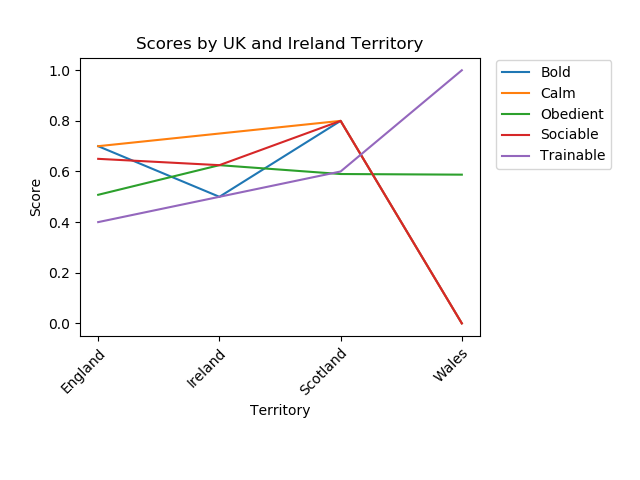
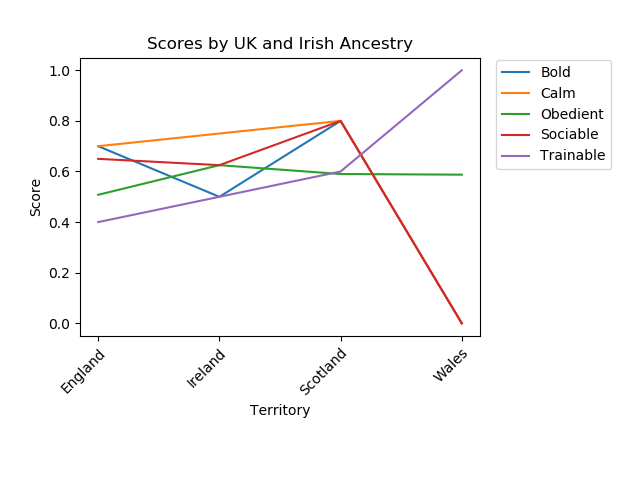
Tweaked graphic

Changed region(s): [[0.2188, 0.0625, 0.6562, 0.125]]

diff --git a/analysis.py b/analysis.py
@@ -77,7 +77,7 @@ plt.legend(loc=(1.04,0.6))
 plt.title('Scores by AKC Grouping')
 ax.set_ylabel('Score')
 ax.set_xlabel('AKC Grouping')
-plt.savefig('plots/akc.png')
+# plt.savefig('plots/akc.png')
 plt.show()
 
 
@@ -121,7 +121,7 @@ plt.legend(loc=(1.04,0.6))
 plt.title('Scores by Borough in NYC')
 ax.set_ylabel('Score')
 ax.set_xlabel('Borough')
-plt.savefig('plots/borough.png')
+# plt.savefig('plots/borough.png')
 plt.show()
 
 nyc_breeds = nyc_registry[['Borough', 'BreedName']]
@@ -141,12 +141,6 @@ print(nyc_breeds_grp.get_group('Brooklyn')['BreedName'].value_counts().head(5))
 print('\nBronx')
 print(nyc_breeds_grp.get_group('Bronx')['BreedName'].value_counts().head(5))
 
-# Perform Chi-Square analysis on NYC data
-nyc_breeds_5 = nyc_registry[nyc_registry['BreedName'].isin(['Yorkshire Terrier', 'Shih Tzu','Chihuahua','Maltese','Labrador Retriever'])] #top 5 breeds overall
-contingency_table = pd.crosstab(nyc_breeds_5['BreedName'], nyc_breeds_5['Borough'])
-nyc_chi2 = stats.chi2_contingency(contingency_table)
-print('\nTest statistic: {}'.format(nyc_chi2[0].round(2)))
-print('P-value: {}'.format(nyc_chi2[1]))
 
 # NYC Overall 
 plt.title('NYC Overall Attributes')
@@ -155,8 +149,7 @@ plt.xlabel('Attributes')
 nyc_attrib_overall = nyc_attrib[lst]
 nyc_attrib_overall = nyc_attrib.mean()
 plt.bar(nyc_attrib_overall.index, nyc_attrib_overall.values)
-plt.savefig('plots/nyc_overall.png')
-
+# plt.savefig('plots/nyc_overall.png')
 plt.show()
 
 
@@ -170,7 +163,7 @@ print(adelaide_attrib[lst].std().round(decimals=2))
 
 plt.title('Adelaide Overall Attributes')
 plt.bar(adelaide_attrib_mean.index, adelaide_attrib_mean.values)
-plt.savefig('plots/adelaide_overall.png')
+# plt.savefig('plots/adelaide_overall.png')
 
 plt.show()
 
@@ -184,9 +177,8 @@ print(edmonton_attrib[lst].std().round(decimals=2))
 
 plt.title('Edmonton Overall Attributes')
 plt.bar(edmonton_attrib_mean.index, edmonton_attrib_mean.values)
-plt.savefig('plots/edmonton_overall.png')
+# plt.savefig('plots/edmonton_overall.png')
 plt.show()
-
 
 ancestral = wiki[['Breed', 'Origin']]
 
@@ -215,10 +207,10 @@ ax.plot(ancestral_uk_ire_mean.index, ancestral_uk_ire_mean['Trainable'])
 plt.setp(ax.xaxis.get_majorticklabels(), rotation=45, ha='right', rotation_mode='anchor') 
 plt.gcf().subplots_adjust(bottom=0.3, right=.75)
 plt.legend(loc=(1.04,0.6))
-plt.title('Scores by UK and Ireland Territory')
+plt.title('Scores by UK and Irish Ancestry')
 ax.set_ylabel('Score')
 ax.set_xlabel('Territory')
-plt.savefig('plots/uk_ireland.png')
+# plt.savefig('plots/uk_ireland.png')
 plt.show()
 
 # Combining Scotland, Wales, and England as United Kingdom
@@ -279,7 +271,7 @@ plt.legend(loc=(1.04,0.6))
 plt.title('Scores by Country of Ancestry')
 ax.set_ylabel('Score')
 ax.set_xlabel('Country')
-plt.savefig('plots/ancestry.png')
+# plt.savefig('plots/ancestry.png')
 plt.show()
 
 # data = [ancestral_attrib_mean_filtered.index, ancestral_attrib_mean_filtered['Bold']]

diff --git a/study_design.md b/study_design.md
@@ -39,6 +39,7 @@ Compliance could affect the data; certain dog owners may be less likely to regis
 [Edmonton Dog Licences Data Set](https://data.edmonton.ca/Community-Services/Pet-Licenses-by-Neighbourhood/5squ-mg4w)
 [Data on Canine Intelligence](https://data.world/len/intelligence-of-dogs)
 [Trainability and boldness traits differ between dog breed clusters based on conventional breed categories and genetic relatedness by Borbála Turcsán, Enikő Kubinyi, Ádám Miklósi](https://www.researchgate.net/publication/228485434_Trainability_and_boldness_traits_differ_between_dog_breed_clusters_based_on_conventional_breed_categories_and_genetic_relatedness)
+
 Further research on dogs in the UK: [Estimation of the number and demographics of companion dogs in the UK by Lucy Asher, Emma L Buckland, C Ianthi Phylactopoulos, Martin C Whiting, Siobhan M Abeyesinghe and Christopher M Wathes](https://bmcvetres.biomedcentral.com/articles/10.1186/1746-6148-7-74)
 
 ## Acknowledgements
@@ -50,4 +51,4 @@ TO DO:
 
 Include fuzzy values - what about mixes?
 
-left/inner joins?
+left/inner joins???????
